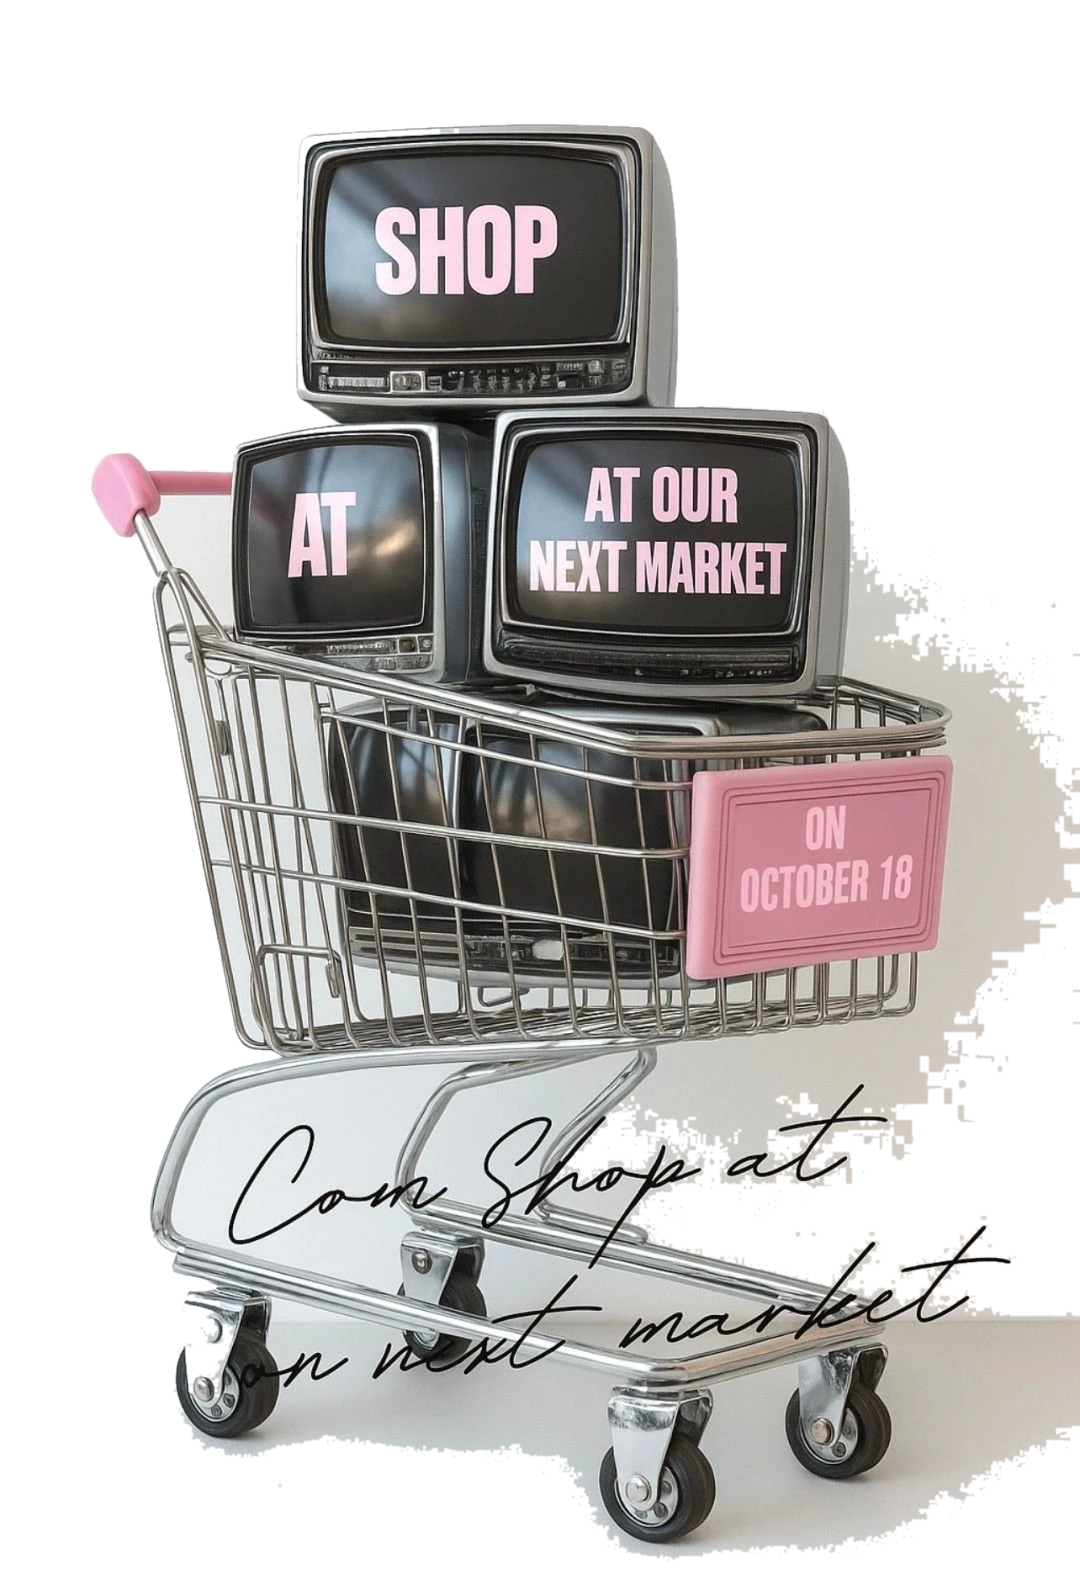
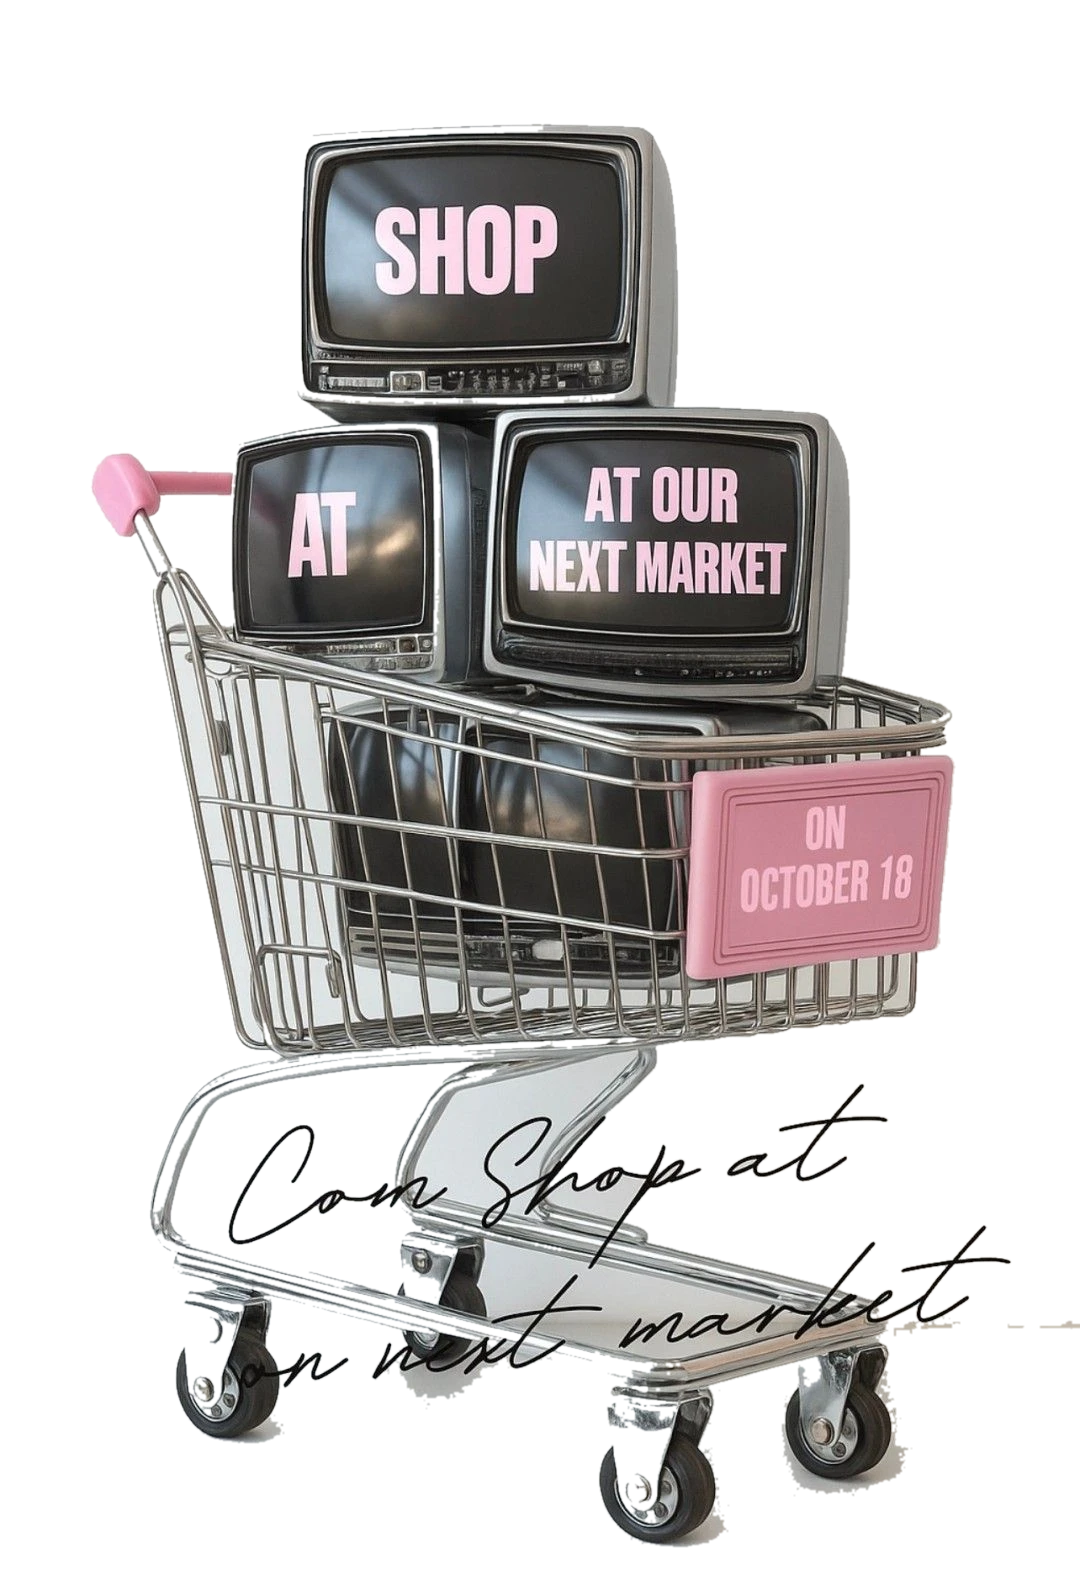
fix(marketplace): quitar sombra gris restante del carrito y centrar la seccion

diff --git a/src/pages/PublicPages.tsx b/src/pages/PublicPages.tsx
@@ -79,7 +79,7 @@ export const MarketplacePage = () => {
       <div className="mx-auto mb-6 flex max-w-7xl justify-end px-5">
         <Button asChild variant="outline" className="rounded-full"><Link to="/carrito"><ShoppingBag className="mr-2 h-4 w-4" />Carrito ({items.length})</Link></Button>
       </div>
-      <section className="mx-auto flex max-w-7xl flex-col items-center justify-center gap-6 px-5 py-10 md:flex-row md:justify-start">
+      <section className="mx-auto flex max-w-7xl flex-col items-center justify-center gap-6 px-5 py-10 md:flex-row">
         <Link to="/marketplace/tienda" className="pill-solid order-2 md:order-1">Entrar a la tienda <ArrowRight className="ml-1 h-4 w-4" /></Link>
         <Link to="/marketplace/tienda" className="group order-1 block md:order-2">
           <img src={marketplaceShopCart} alt="Entrar a la tienda" className="w-full max-w-sm transition-transform duration-300 group-hover:-translate-y-2" />
